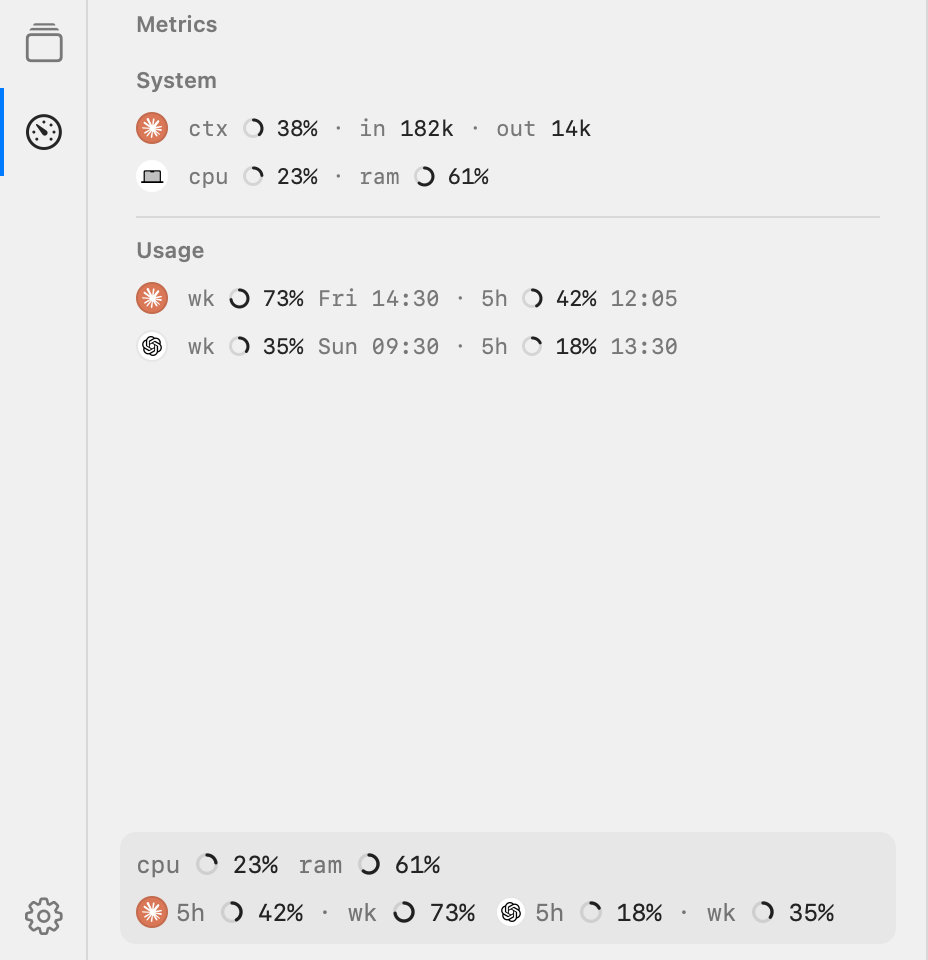
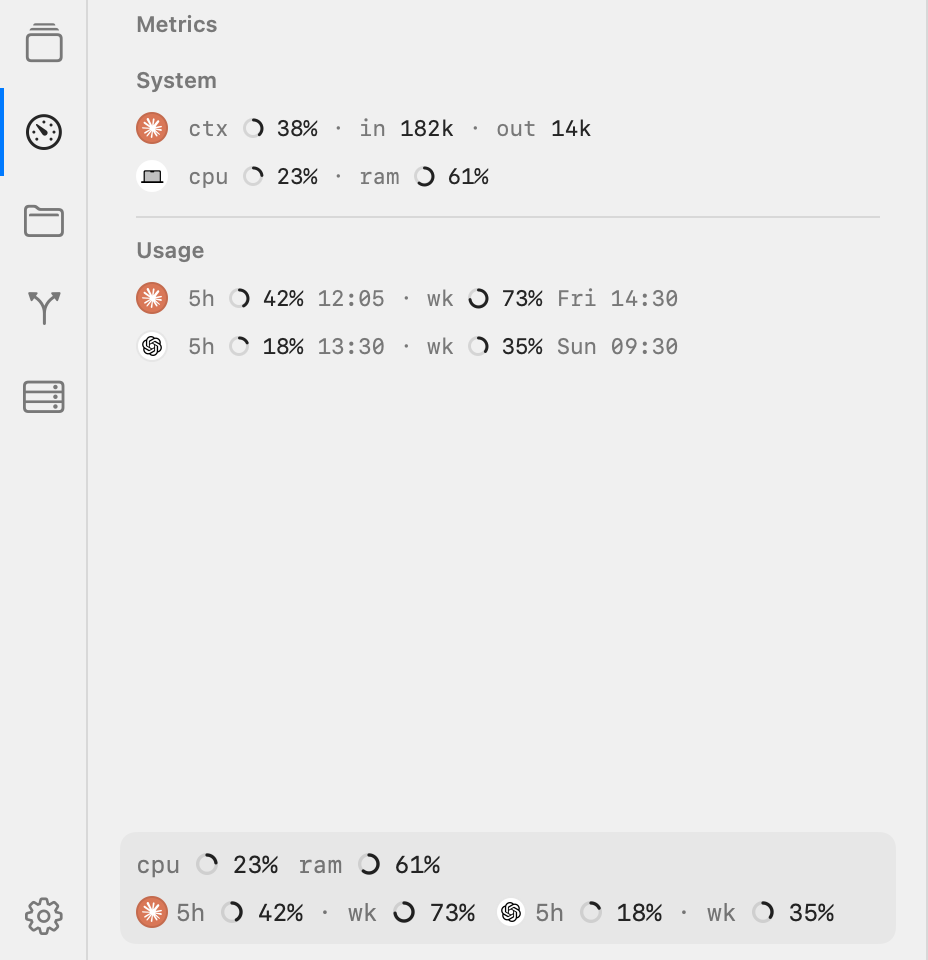
README: screenshots re-rendered for 1.0.0, plus the SSH panel
The renderer draws the SSH panel from the same invented SSH config,
now with two other hosts, and the README shows it beside Metrics.

diff --git a/Shellforge/Tests/ShellforgeUITests/ReadmeScreenshots.swift b/Shellforge/Tests/ShellforgeUITests/ReadmeScreenshots.swift
@@ -21,7 +21,7 @@ struct ReadmeScreenshots {
         let folder = Self.outputFolder
         try FileManager.default.createDirectory(at: folder, withIntermediateDirectories: true)
         for appearance in DemoAppearance.allCases {
-            for scene in [DemoScene.sessions, .metrics, .rearrange] {
+            for scene in [DemoScene.sessions, .metrics, .rearrange, .ssh] {
                 let demo = try await DemoSidebar.make()
                 let bitmap = try await demo.render(scene, appearance: appearance)
                 try Self.write(bitmap, scene: scene, appearance: appearance, to: folder)
@@ -46,11 +46,14 @@ struct ReadmeScreenshots {
 }
 
 private enum DemoScene: String {
-    case sessions, metrics, rearrange, newTask = "new-task"
+    case sessions, metrics, rearrange, ssh, newTask = "new-task"
 
-    /// The sidebar's height in the picture, at its default width: the Metrics panel is short, and
-    /// the rest of a full-height one would be empty.
-    var sidebarHeight: CGFloat { self == .metrics ? 480 : 760 }
+    /// The sidebar's height in the picture, at its default width: the Metrics and SSH panels are
+    /// short, and the rest of a full-height one would be empty.
+    var sidebarHeight: CGFloat { self == .metrics || self == .ssh ? 480 : 760 }
+
+    /// Whether the scene draws the Sessions list, which fills between turns of the main actor.
+    var showsSessions: Bool { self == .sessions || self == .rearrange }
 }
 
 private enum DemoAppearance: String, CaseIterable {
@@ -110,7 +113,8 @@ private struct DemoSidebar {
     let model: SidebarModel, activity: ActivityModel, hooks: AgentHooksModel, machine: MachineMonitor, folder: URL
 
     /// Everything under one scratch folder: the workspace, an empty home, a `PATH` holding only empty
-    /// stand-ins for `claude` and `codex` (never run: only found), and an SSH config naming `staging`.
+    /// stand-ins for `claude` and `codex` (never run: only found), and an SSH config naming `staging`,
+    /// the project's tunnel, and two other hosts for the SSH panel.
     static func make() async throws -> DemoSidebar {
         let folder = TestScratch.root.appendingPathComponent("readme-\(UUID().uuidString)")
         let home = folder.appendingPathComponent("home"), bin = folder.appendingPathComponent("bin")
@@ -122,7 +126,16 @@ private struct DemoSidebar {
             #expect(fm.createFile(atPath: path, contents: Data("#!/bin/sh\nexit 0\n".utf8), attributes: [.posixPermissions: 0o755]))
         }
         let sshConfig = folder.appendingPathComponent("ssh_config")
-        try Data("Host staging\n  HostName staging.example.invalid\n  LocalForward 5433 localhost:5432\n".utf8).write(to: sshConfig)
+        try Data("""
+            Host staging
+              HostName staging.example.invalid
+              LocalForward 5433 localhost:5432
+            Host build-box
+              HostName build.example.invalid
+            Host db-replica
+              HostName db.example.invalid
+
+            """.utf8).write(to: sshConfig)
         let launcher = CommandLauncher(resolve: { ResolvedEnvironment(variables: ["PATH": bin.path], source: .loginShell("/bin/zsh")) })
         let host = FakeTerminalHost(), feed = FakeFeed()
         let document = WorkspaceDocument(store: WorkspaceStore(folder: folder.appendingPathComponent("workspace")))
@@ -156,6 +169,7 @@ private struct DemoSidebar {
         switch scene {
         case .metrics: activity.select(.metrics)
         case .rearrange: model.beginRearrange()
+        case .ssh: activity.select(.ssh)
         case .sessions, .newTask: break
         }
         // The lock is one for every window: let it go whatever the drawing does.
@@ -170,7 +184,7 @@ private struct DemoSidebar {
         let rows = model.rows.count
         return try await snapshot(view, size: NSSize(width: Size.sidebarWidth, height: scene.sidebarHeight), appearance: appearance) { host in
             // The Sessions list has a row for each of the model's, plus its header outside Rearrange mode.
-            scene == .metrics || Self.tables(in: host).contains { $0.numberOfRows >= rows }
+            !scene.showsSessions || Self.tables(in: host).contains { $0.numberOfRows >= rows }
         }
     }
 

diff --git a/README.md b/README.md
@@ -41,29 +41,41 @@ kept apart in `Shellforge/` so these merges stay small.
 <picture>
   <source media="(prefers-color-scheme: dark)" srcset="Shellforge/docs/images/sessions-dark.png">
   <source media="(prefers-color-scheme: light)" srcset="Shellforge/docs/images/sessions-light.png">
-  <img src="Shellforge/docs/images/sessions-light.png" width="464" alt="The Shellforge sidebar’s Sessions panel: the projects acme-web, demo-api and docs-site with their tasks, each with its agent, status, Jira ticket, diff count and branch; a running SSH tunnel to staging; a zsh terminal; and the metrics strip with CPU, memory and each agent’s 5-hour and weekly usage">
+  <img src="Shellforge/docs/images/sessions-light.png" width="464" alt="The Shellforge sidebar’s Sessions panel, with the activity bar of panels down its left edge: the projects acme-web, demo-api and docs-site with their tasks, each with its agent, status, Jira ticket, diff count and branch; a running SSH tunnel to staging; a zsh terminal; and the metrics strip with CPU, memory and each agent’s 5-hour and weekly usage">
 </picture>
 </p>
 
 <table>
   <tr>
     <th>Metrics</th>
-    <th>Rearrange</th>
-    <th>New Task</th>
+    <th>SSH</th>
   </tr>
   <tr>
     <td valign="top">
 <picture>
   <source media="(prefers-color-scheme: dark)" srcset="Shellforge/docs/images/metrics-dark.png">
   <source media="(prefers-color-scheme: light)" srcset="Shellforge/docs/images/metrics-light.png">
-  <img src="Shellforge/docs/images/metrics-light.png" width="260" alt="The Metrics panel: the selected task’s context and tokens, the Mac’s CPU and memory, and Claude Code’s and Codex’s weekly and 5-hour usage with their reset times">
+  <img src="Shellforge/docs/images/metrics-light.png" width="300" alt="The Metrics panel: the selected task’s context and tokens, the Mac’s CPU and memory, and Claude Code’s and Codex’s weekly and 5-hour usage with their reset times">
 </picture>
     </td>
     <td valign="top">
 <picture>
+  <source media="(prefers-color-scheme: dark)" srcset="Shellforge/docs/images/ssh-dark.png">
+  <source media="(prefers-color-scheme: light)" srcset="Shellforge/docs/images/ssh-light.png">
+  <img src="Shellforge/docs/images/ssh-light.png" width="300" alt="The SSH panel: acme-web’s running tunnel to staging, and the other hosts in ~/.ssh/config, build-box and db-replica, each with Open in Terminal">
+</picture>
+    </td>
+  </tr>
+  <tr>
+    <th>Rearrange</th>
+    <th>New Task</th>
+  </tr>
+  <tr>
+    <td valign="top">
+<picture>
   <source media="(prefers-color-scheme: dark)" srcset="Shellforge/docs/images/rearrange-dark.png">
   <source media="(prefers-color-scheme: light)" srcset="Shellforge/docs/images/rearrange-light.png">
-  <img src="Shellforge/docs/images/rearrange-light.png" width="260" alt="Rearrange mode: a drag handle on every project, task, tunnel and terminal, with Cancel and Done in the bar at the top">
+  <img src="Shellforge/docs/images/rearrange-light.png" width="300" alt="Rearrange mode: a drag handle on every project, task, tunnel and terminal, with Cancel and Done in the bar at the top">
 </picture>
     </td>
     <td valign="top">
